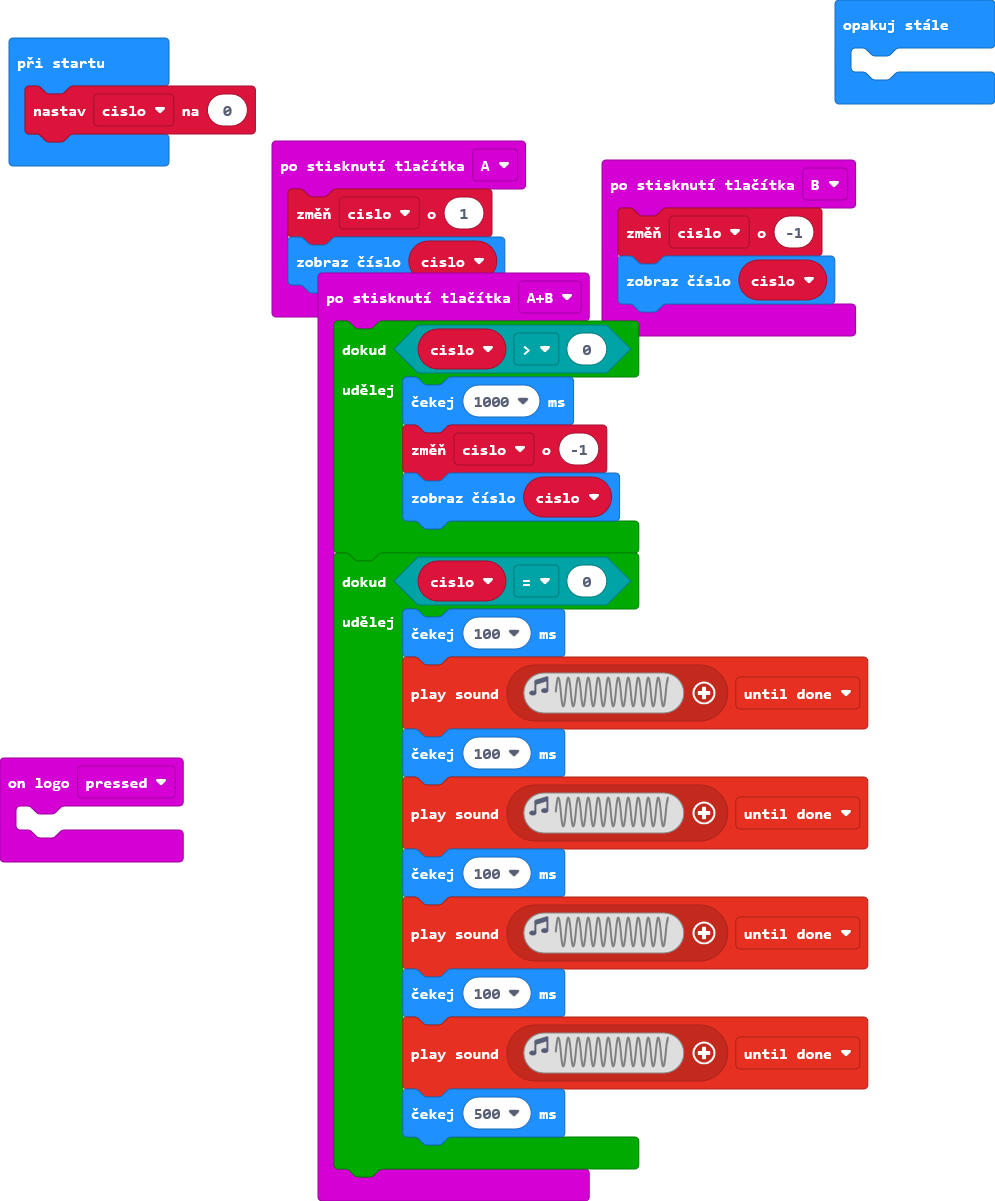
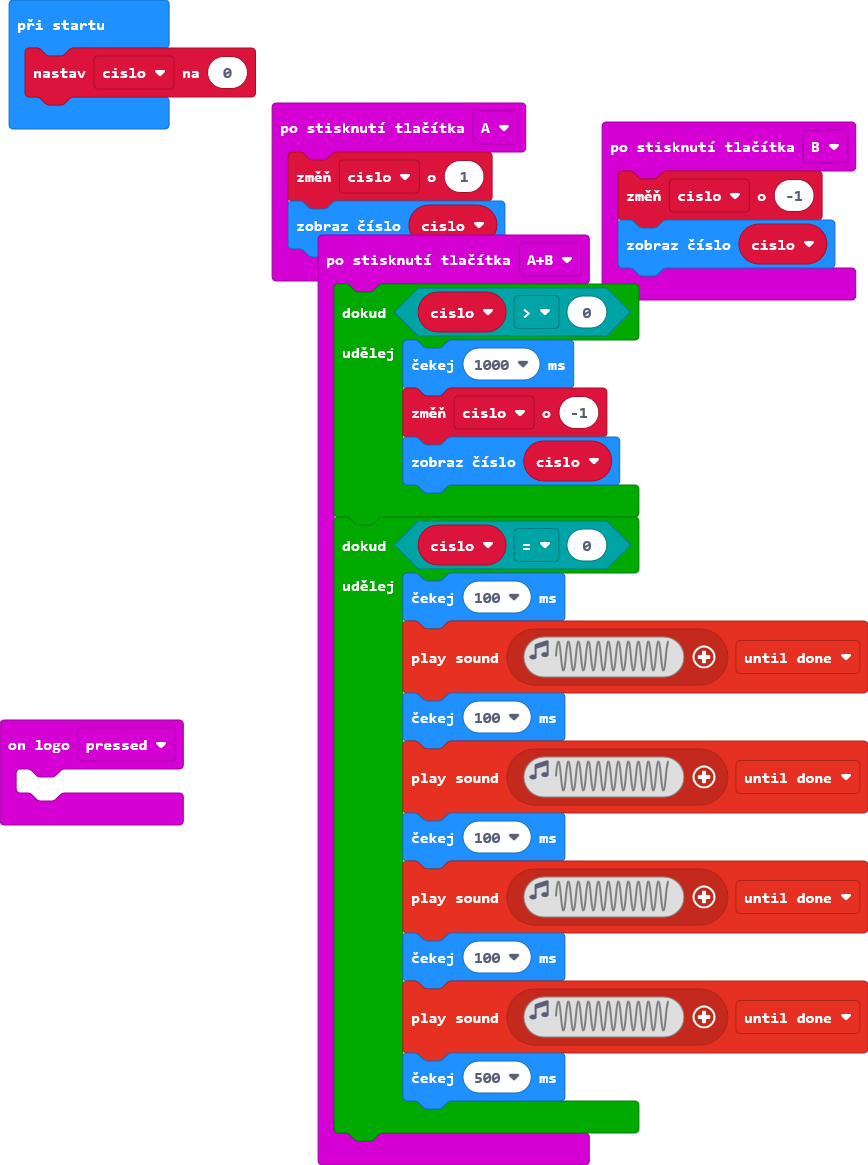
Aktualizovat main.blocks, main.ts

diff --git a/main.ts b/main.ts
@@ -29,6 +29,3 @@ input.onLogoEvent(TouchButtonEvent.Pressed, function () {
 })
 let cislo = 0
 cislo = 0
-basic.forever(function () {
-	
-})
